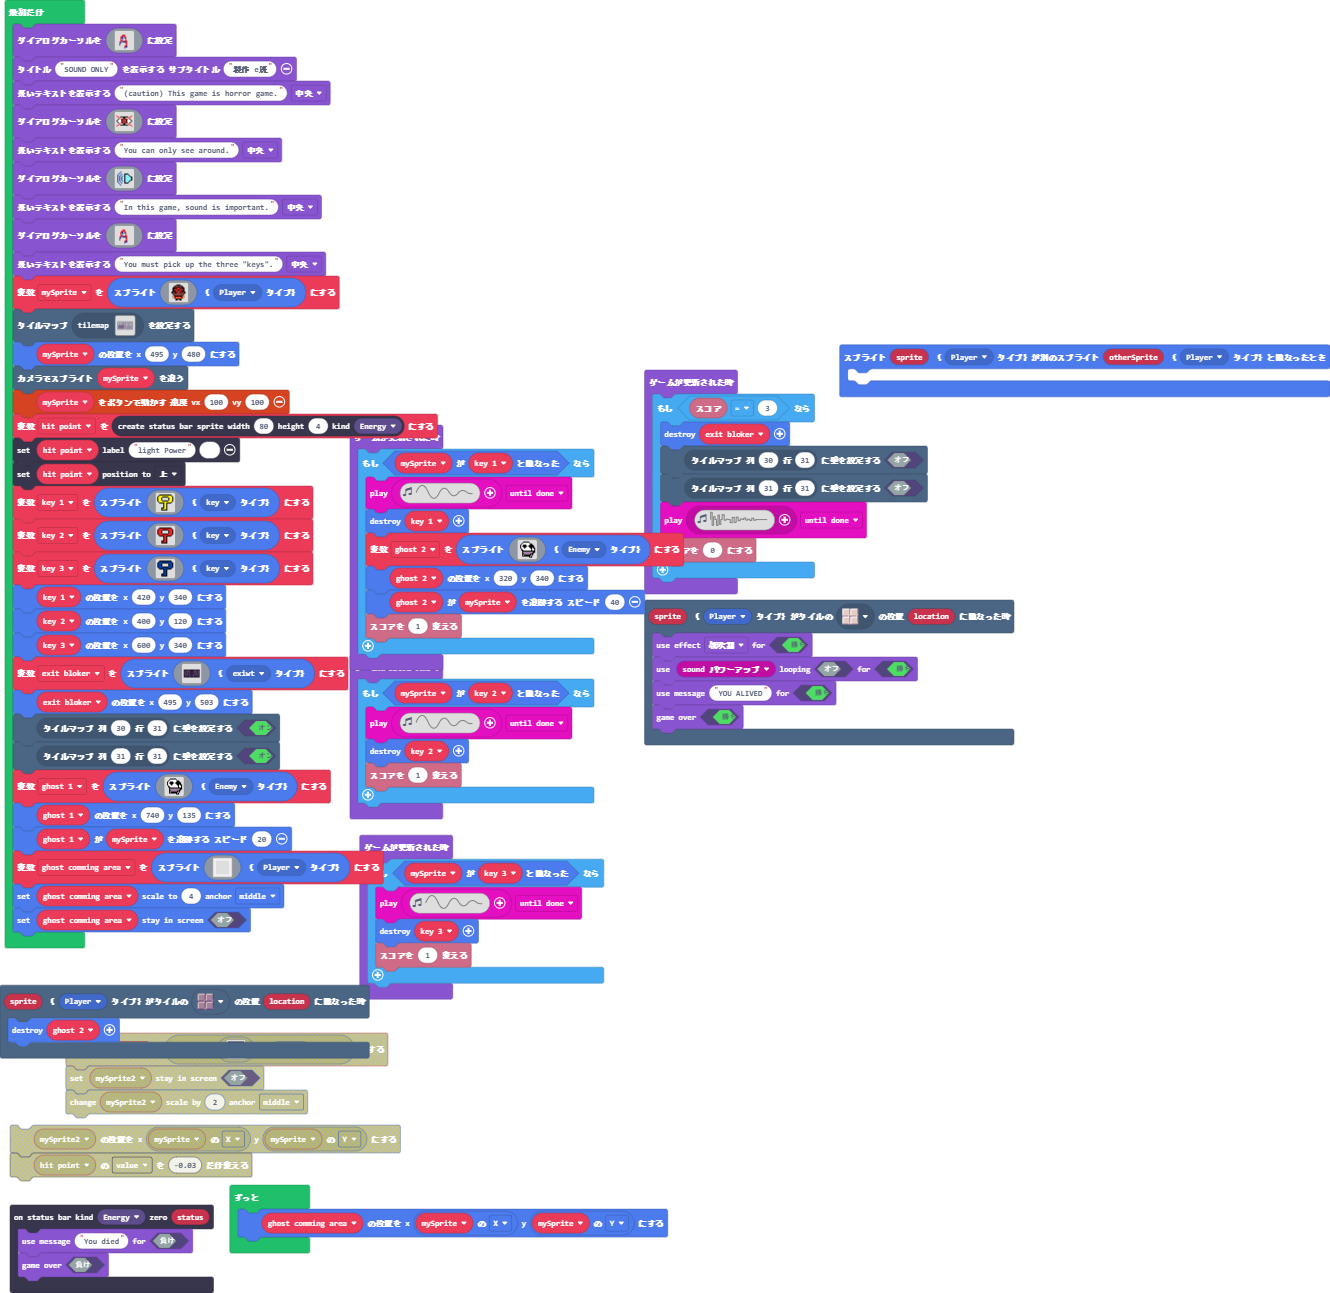
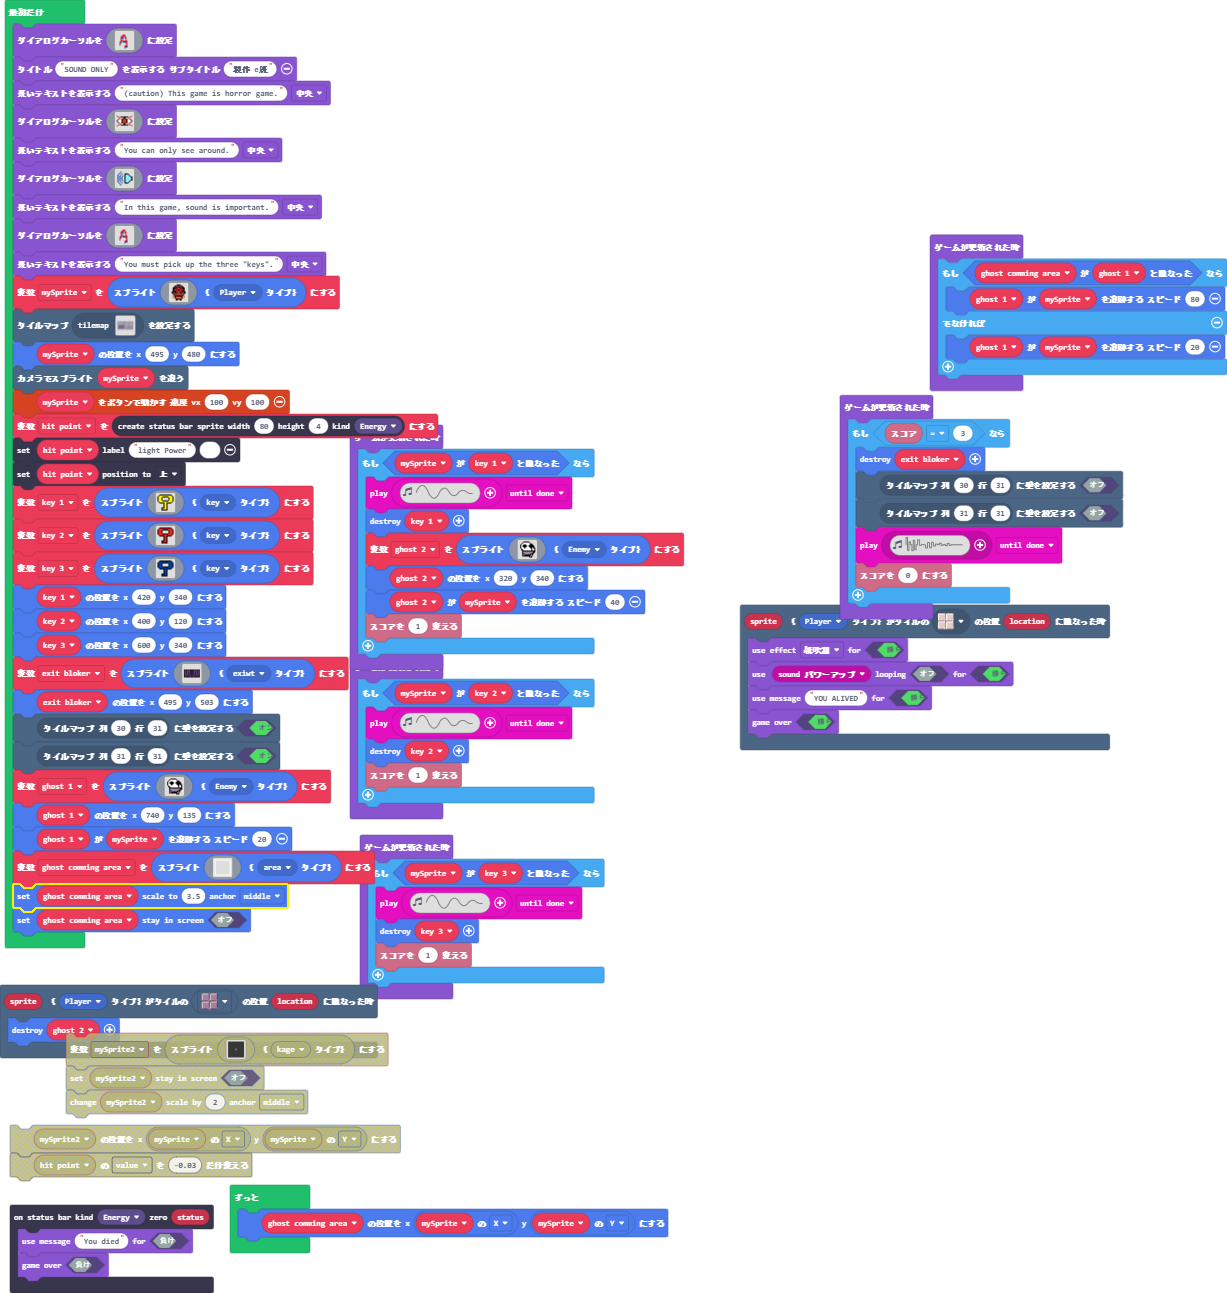
更新 main.blocks, main.ts

Changed region(s): [[0.0, 0.0, 1.0, 1.0], [0.4336, 0.7425, 0.4955, 0.7734]]

diff --git a/main.ts b/main.ts
@@ -15,9 +15,6 @@ scene.onOverlapTile(SpriteKind.Player, sprites.dungeon.floorLight0, function (sp
 scene.onOverlapTile(SpriteKind.Player, sprites.dungeon.floorDark0, function (sprite, location) {
     sprites.destroy(ghost_2)
 })
-sprites.onOverlap(SpriteKind.Player, SpriteKind.Player, function (sprite, otherSprite) {
-	
-})
 statusbars.onZero(StatusBarKind.Energy, function (status) {
     game.setGameOverMessage(false, "You died")
     game.gameOver(false)
@@ -156,8 +153,15 @@ let ghost_comming_area = sprites.create(img`
     1 . . . . . . . . . . . . . . 1 
     1 1 1 1 1 1 1 1 1 1 1 1 1 1 1 1 
     `, SpriteKind.area)
-ghost_comming_area.setScale(4, ScaleAnchor.Middle)
+ghost_comming_area.setScale(3.5, ScaleAnchor.Middle)
 ghost_comming_area.setStayInScreen(false)
+game.onUpdate(function () {
+    if (ghost_comming_area.overlapsWith(ghost_1)) {
+        ghost_1.follow(mySprite, 80)
+    } else {
+        ghost_1.follow(mySprite, 20)
+    }
+})
 game.onUpdate(function () {
     if (info.score() == 3) {
         sprites.destroy(exit_bloker)
